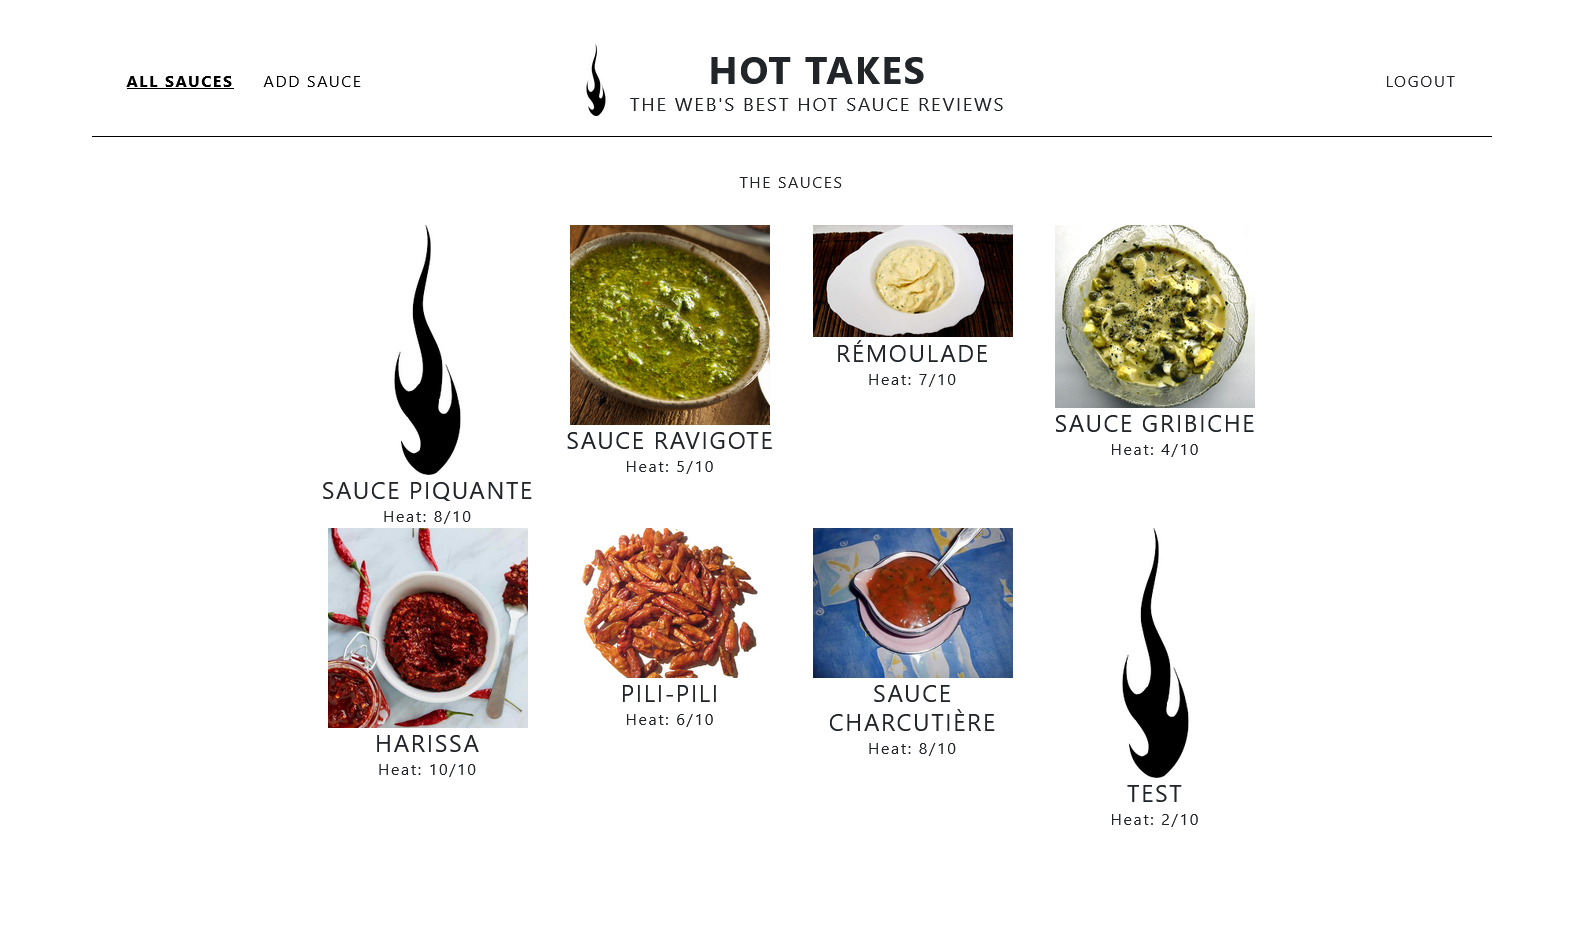
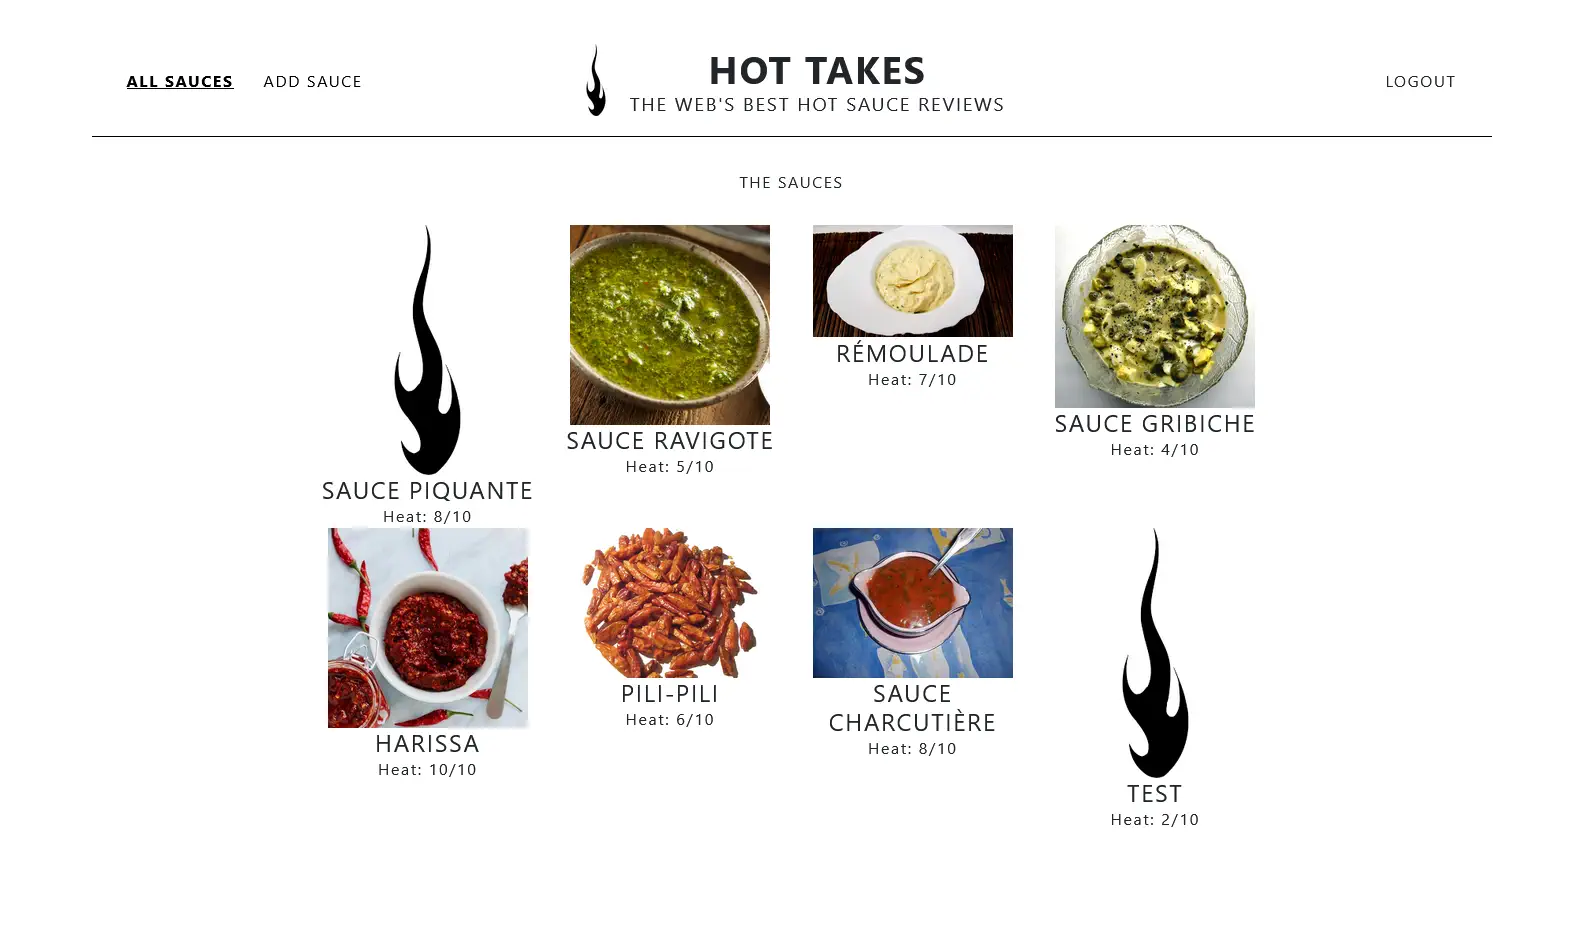
Photos ScreenShort taille réduite. ( Plus lègéres d'environ 9 Mo ). 11mo _> 2,4 Mo.

diff --git a/A-Propos.html b/A-Propos.html
@@ -63,7 +63,7 @@
             <h1 id="H1Principal" class="H1Apropos">Développeur Web Cyril RAVOT</h1>
             <div class="Page-A-Propos-Article-Presentation">
                 <div class="Image-Moi-A-Propos">
-                    <img src="images/CyrilRavot.jpg" alt="Cyril Ravot le créateur de ce Portfolio">
+                    <img src="images/CyrilRavot.webp" alt="Cyril Ravot le créateur de ce Portfolio">
                 </div>
                 <br>
                 <div class="DivArticle">
